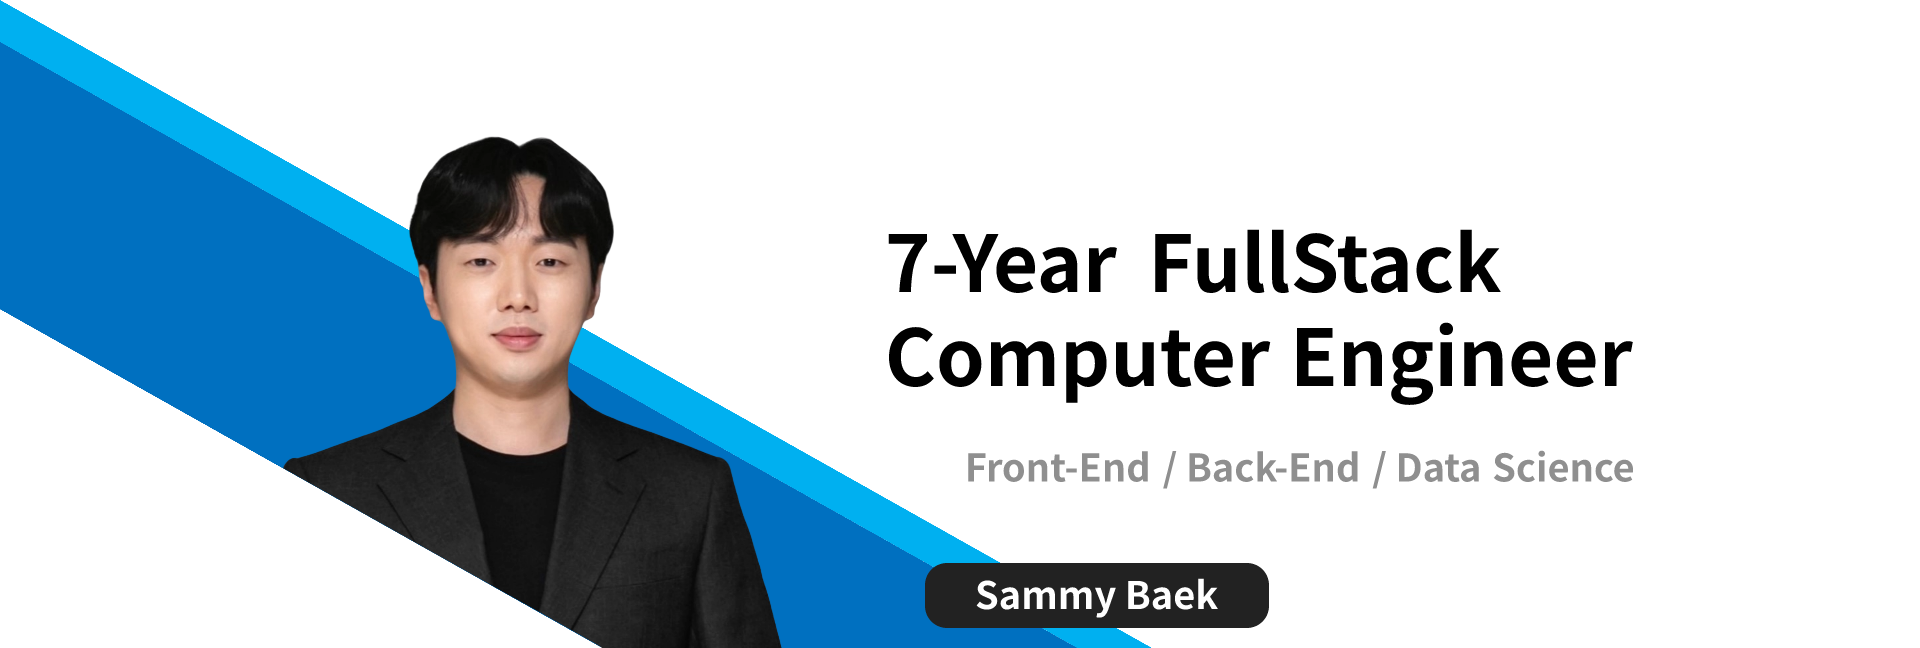
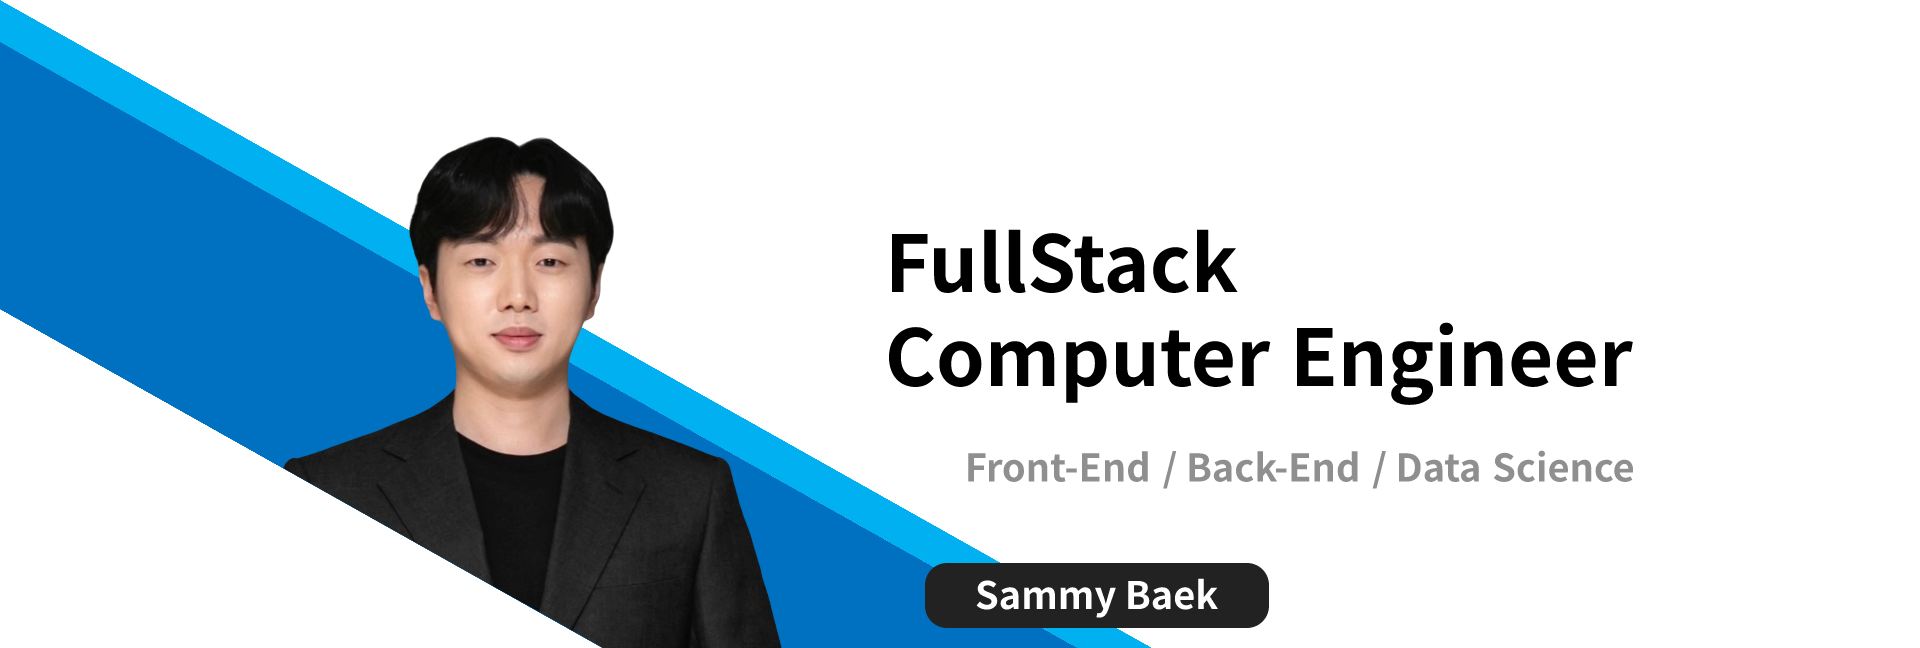
Fix missing translations on HeroImage, and Change hero image slightly (removed total career period because it can be changed on next year)

Changed region(s): [[0.4375, 0.3395, 0.7812, 0.463]]

diff --git a/src/components/units/sections/HeroImage/HeroImage.tsx b/src/components/units/sections/HeroImage/HeroImage.tsx
@@ -15,8 +15,14 @@ import {
 } from './HeroImage.styled';
 import ImageWithSizes from '../../ImageWithSizes';
 
-const HeroImage: React.FC = () => {
-  const srcHero = getAssetUrl('main_hero.png').toString();
+type PropsHeroImage = {
+  locale: string;
+};
+
+const HeroImage: React.FC<PropsHeroImage> = (props) => {
+  const { locale } = props;
+
+  const srcHero = getAssetUrl(`main_hero_${locale}.png`).toString();
   const srcMobile = getAssetUrl('profile_sammy_baek.png').toString();
 
   return (
@@ -43,7 +49,7 @@ const HeroImage: React.FC = () => {
             />
           </StDivMobileImageWrapper>
           <StDivMobileTitle>
-            <StDivMobileTitleMain>7년차 FullStack</StDivMobileTitleMain>
+            <StDivMobileTitleMain>FullStack</StDivMobileTitleMain>
             <StDivMobileTitleMain>Computer Engineer</StDivMobileTitleMain>
           </StDivMobileTitle>
           <StDivMobileName>백 승 우</StDivMobileName>

diff --git a/src/app/[locale]/page.tsx b/src/app/[locale]/page.tsx
@@ -13,7 +13,7 @@ const Main = ({ params: { locale } }: { params: { locale: string } }) => {
 
   return (
     <StMain>
-      <SectionHeroImage />
+      <SectionHeroImage locale={locale} />
       <SectionHeroSkillStacks />
       <SectionProfile locale={locale} />
       <SectionCareer locale={locale} />
